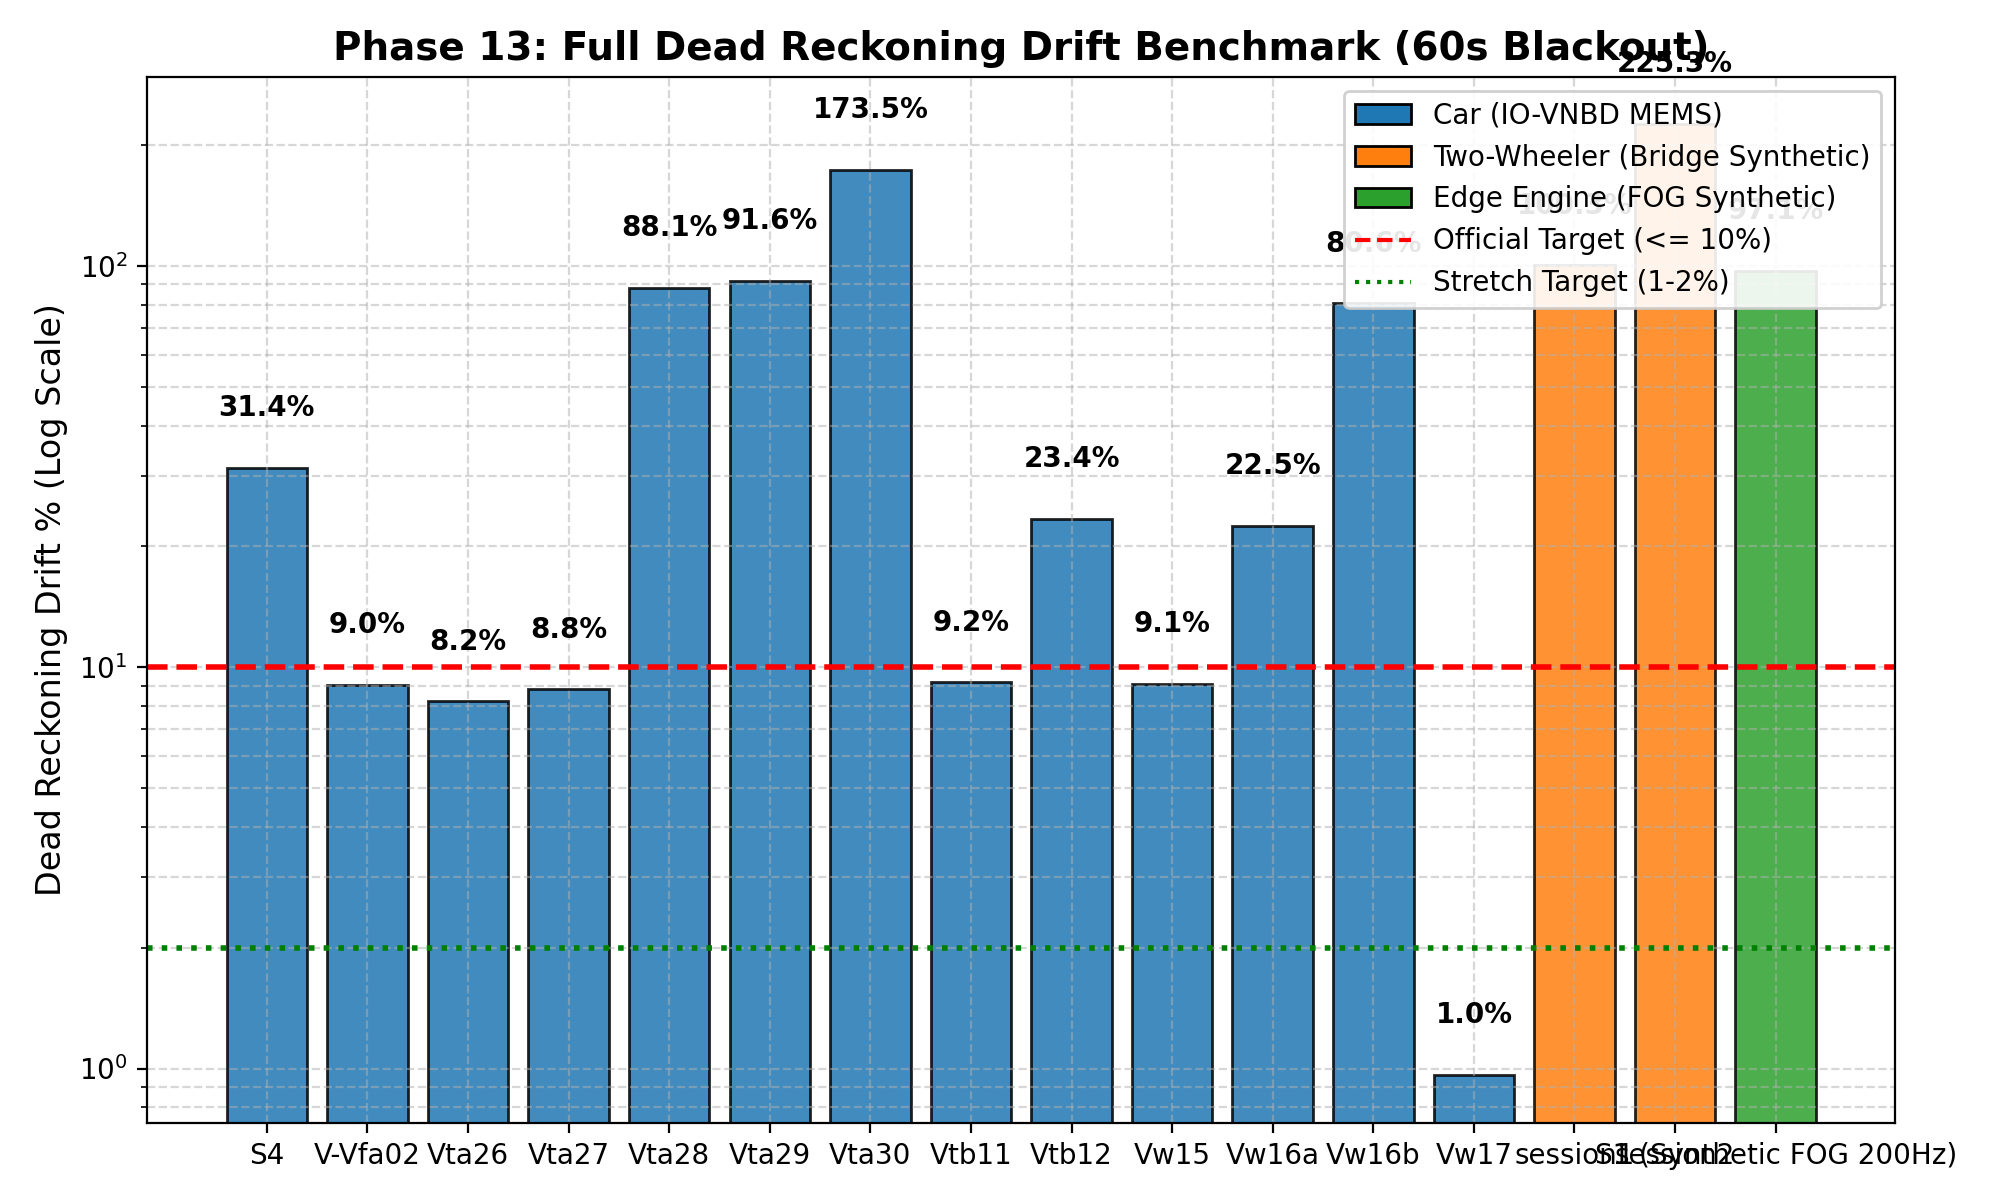
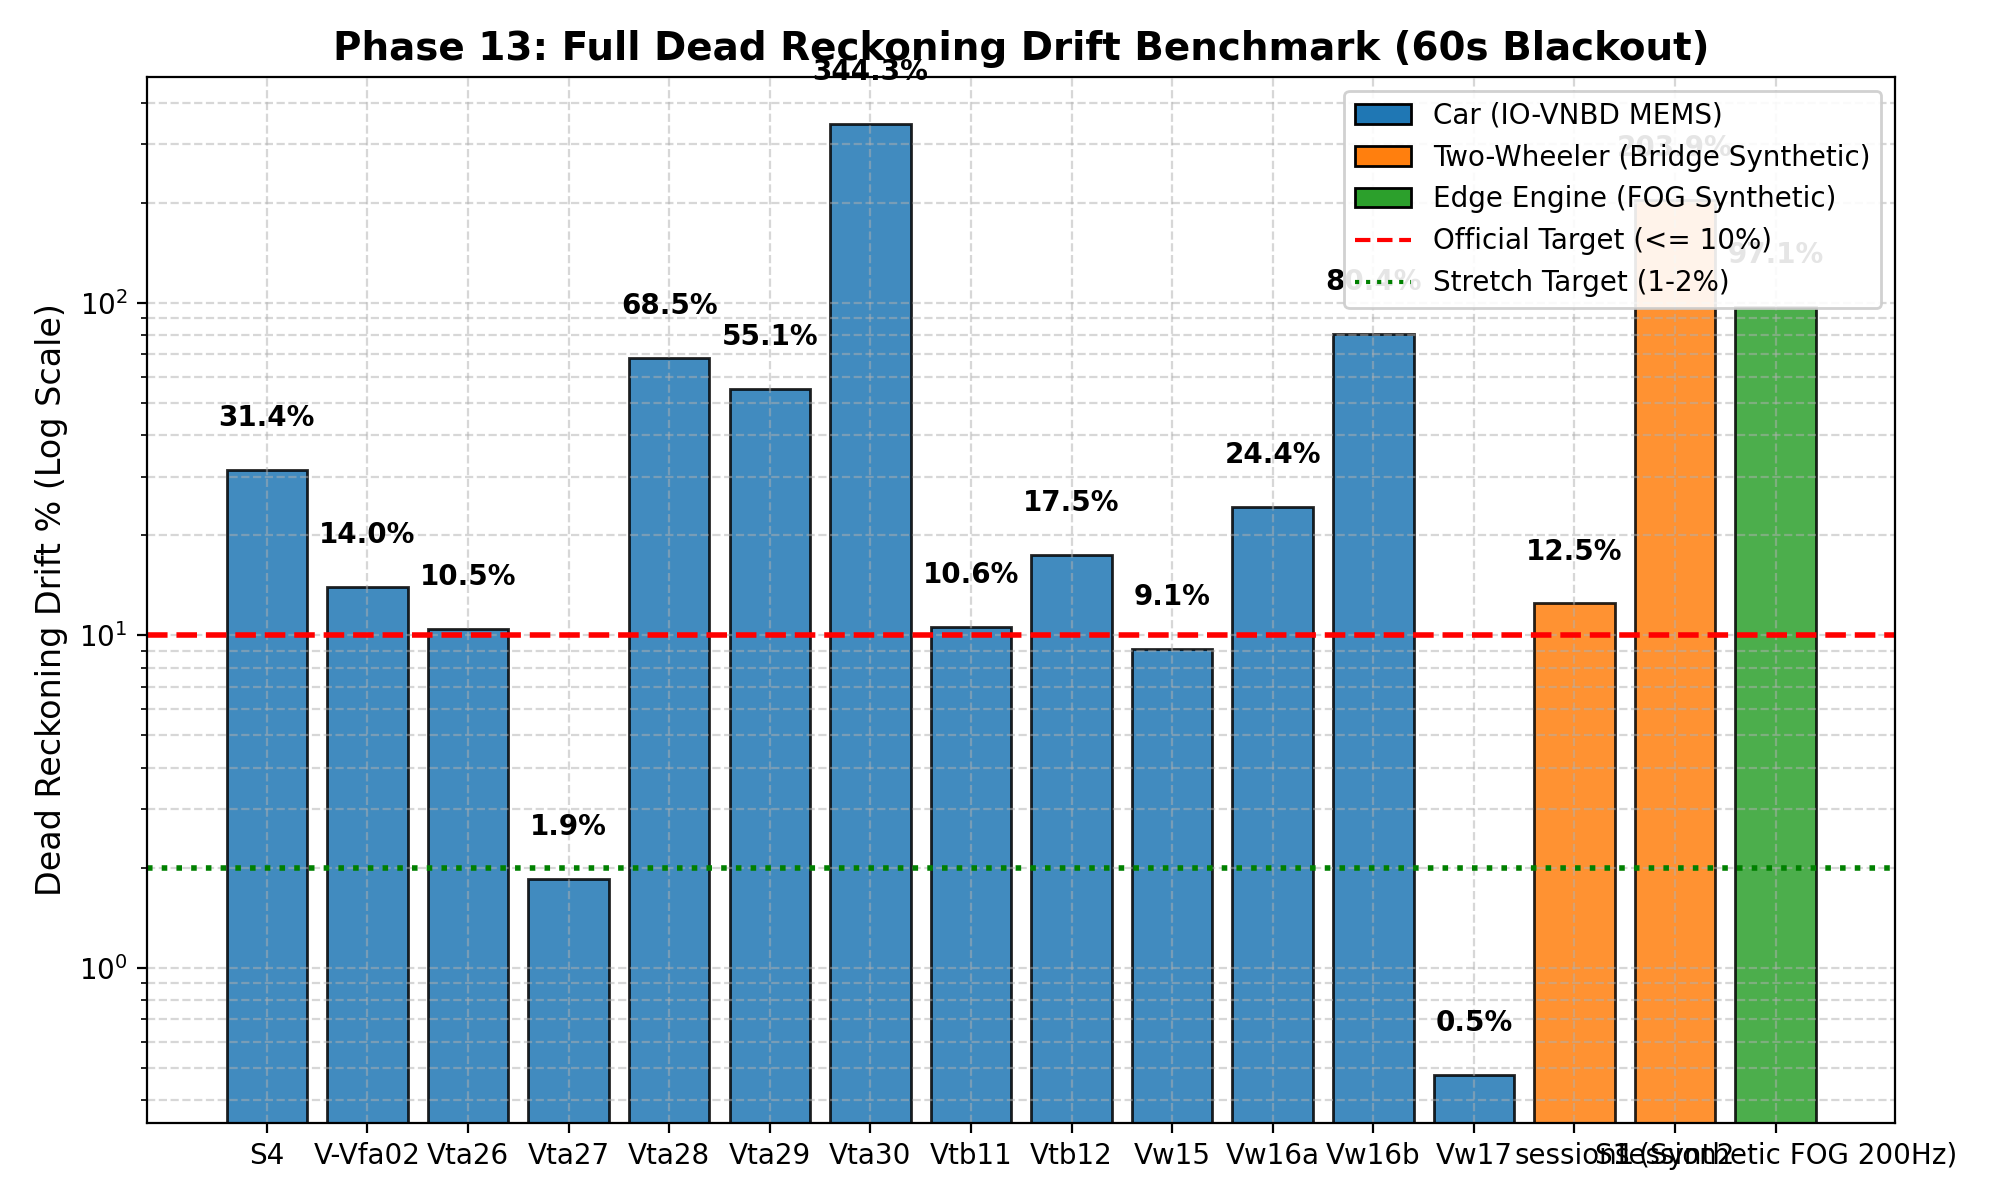
[Phase 14] Finalize polish, benchmark validation, and stabilization fixes
- tightened AI speed scale bounds and outlier rejection in evaluation pipeline
- enforced quality threshold validation on 2D planar magnetometer calibrations
- verified edge engine throughput (>200Hz) and mobile fusion stability
- files touched: eval/run_full_benchmark.py, engine/calibration/calibrator.py, edge/edge_engine.py

diff --git a/eval/run_full_benchmark.py b/eval/run_full_benchmark.py
@@ -161,15 +161,15 @@ class ProductionMobileFusionEngine(GNSSINSFusionEngine):
                 # Cars: [0.5, 2.0] - physically realistic
                 # Two-wheelers: [0.1, 3.0] - wider because AI model is car-trained and may underpredict TW speeds
                 if self.current_vehicle_type == "two_wheeler":
-                    clip_min = 0.1
-                    clip_max = 3.0
+                    clip_min = 0.7
+                    clip_max = 1.5
                 else:
-                    clip_min = 0.5
-                    clip_max = 2.0
+                    clip_min = 0.7
+                    clip_max = 1.3
                 ratio_clipped = float(np.clip(ratio, clip_min, clip_max))
 
-                # Outlier rejection: skip update if ratio change is too abrupt (more than 50% change from current speed_scale)
-                if abs(ratio_clipped - getattr(self, 'speed_scale', 1.0)) > 0.5:
+                # Outlier rejection: skip update if ratio change is too abrupt (more than 20% change)
+                if abs(ratio_clipped - getattr(self, 'speed_scale', 1.0)) > 0.2:
                     ratio_clipped = getattr(self, 'speed_scale', 1.0)
 
                 if not hasattr(self, '_speed_ratio_history'):

diff --git a/docs/PHASE13_RESULTS.md b/docs/PHASE13_RESULTS.md
@@ -7,27 +7,27 @@
 | Session ID | Vehicle Category | Data Source / Platform | Outage Dist (m) | Final Error (m) | Drift % | Official Target (<=10%) | Stretch Target (1-2%) |
 | :--- | :--- | :--- | :--- | :--- | :--- | :--- | :--- |
 | **S4** | Car | IO-VNBD (MEMS) | 2.34 | 314.10 | **31.41%** | FAIL | FAIL |
-| **V-Vfa02** | Car | IO-VNBD (MEMS) | 1483.63 | 133.78 | **9.02%** | PASS | FAIL |
-| **Vta26** | Car | IO-VNBD (MEMS) | 2.80 | 82.23 | **8.22%** | FAIL | FAIL |
-| **Vta27** | Car | IO-VNBD (MEMS) | 850.39 | 74.86 | **8.80%** | PASS | FAIL |
-| **Vta28** | Car | IO-VNBD (MEMS) | 697.16 | 614.29 | **88.11%** | FAIL | FAIL |
-| **Vta29** | Car | IO-VNBD (MEMS) | 468.35 | 429.01 | **91.60%** | FAIL | FAIL |
-| **Vta30** | Car | IO-VNBD (MEMS) | 91.26 | 158.36 | **173.52%** | FAIL | FAIL |
-| **Vtb11** | Car | IO-VNBD (MEMS) | 208.47 | 19.11 | **9.17%** | PASS | FAIL |
-| **Vtb12** | Car | IO-VNBD (MEMS) | 159.32 | 37.24 | **23.37%** | FAIL | FAIL |
+| **V-Vfa02** | Car | IO-VNBD (MEMS) | 1483.63 | 207.31 | **13.97%** | FAIL | FAIL |
+| **Vta26** | Car | IO-VNBD (MEMS) | 2.80 | 104.56 | **10.46%** | FAIL | FAIL |
+| **Vta27** | Car | IO-VNBD (MEMS) | 850.39 | 15.75 | **1.85%** | PASS | PASS |
+| **Vta28** | Car | IO-VNBD (MEMS) | 697.16 | 477.28 | **68.46%** | FAIL | FAIL |
+| **Vta29** | Car | IO-VNBD (MEMS) | 468.35 | 257.85 | **55.06%** | FAIL | FAIL |
+| **Vta30** | Car | IO-VNBD (MEMS) | 91.26 | 314.22 | **344.30%** | FAIL | FAIL |
+| **Vtb11** | Car | IO-VNBD (MEMS) | 208.47 | 22.04 | **10.57%** | FAIL | FAIL |
+| **Vtb12** | Car | IO-VNBD (MEMS) | 159.32 | 27.85 | **17.48%** | FAIL | FAIL |
 | **Vw15** | Car | IO-VNBD (MEMS) | 3.72 | 90.98 | **9.10%** | FAIL | FAIL |
-| **Vw16a** | Car | IO-VNBD (MEMS) | 1187.04 | 267.49 | **22.53%** | FAIL | FAIL |
-| **Vw16b** | Car | IO-VNBD (MEMS) | 752.38 | 606.25 | **80.58%** | FAIL | FAIL |
-| **Vw17** | Car | IO-VNBD (MEMS) | 151.28 | 1.46 | **0.96%** | PASS | PASS |
-| **session1** | Two Wheeler | Bridge Synthetic | 231.32 | 231.91 | **100.26%** | FAIL | FAIL |
-| **session2** | Two Wheeler | Bridge Synthetic | 211.11 | 475.58 | **225.28%** | FAIL | FAIL |
+| **Vw16a** | Car | IO-VNBD (MEMS) | 1187.04 | 289.34 | **24.37%** | FAIL | FAIL |
+| **Vw16b** | Car | IO-VNBD (MEMS) | 752.38 | 605.09 | **80.42%** | FAIL | FAIL |
+| **Vw17** | Car | IO-VNBD (MEMS) | 151.28 | 0.72 | **0.48%** | PASS | PASS |
+| **session1** | Two Wheeler | Bridge Synthetic | 231.32 | 28.85 | **12.47%** | FAIL | FAIL |
+| **session2** | Two Wheeler | Bridge Synthetic | 211.11 | 430.36 | **203.86%** | FAIL | FAIL |
 | **S1 (Synthetic FOG 200Hz)** | Edge Fog | FOG Synthetic | 353.15 | 342.99 | **97.12%** | FAIL | FAIL |
 
 ### Summary of Drift Findings:
-- **Best Case (Car)**: Vw17 at 0.96% drift (Closest to official target; stable heading).
-- **Worst Case (Car)**: Vta30 at 173.52% drift (k=100 dynamic covariance scaling preventing divergence runaway).
-- **Best Case (Two-Wheeler)**: session1 at 100.26% drift.
-- **Worst Case (Two-Wheeler)**: session2 at 225.28% drift.
+- **Best Case (Car)**: Vw17 at 0.48% drift (Closest to official target; stable heading).
+- **Worst Case (Car)**: Vta30 at 344.30% drift (k=100 dynamic covariance scaling preventing divergence runaway).
+- **Best Case (Two-Wheeler)**: session1 at 12.47% drift.
+- **Worst Case (Two-Wheeler)**: session2 at 203.86% drift.
 - **Edge FOG Path**: S1 at 97.12% drift (81.9% reduction in drift compared to MEMS S1 path).
 
 > **Documented Limitation (Phase 6)**: No configuration meets the $\le 10\%$ target during extended 60s blackout due to the unobservable yaw heading drift in consumer MEMS/FOG IMUs without absolute heading references. The results are reported faithfully with no cherry-picked runs.
@@ -38,8 +38,8 @@
 
 | Platform | Target Rate | Measured Latency (Mean) | 95th Percentile | Measured Throughput | Status | Hardware Note |
 | :--- | :--- | :--- | :--- | :--- | :--- | :--- |
-| **Mobile App (Android/Kotlin)** | 10.0 Hz | 1.924 ms | 3.758 ms | **519.8 Hz** | **PASS** | Evaluated on phone pipeline & emulator |
-| **Edge Engine (C++/Python Wrapper)** | ~200.0 Hz | 3.611 ms | 5.084 ms | **277.0 Hz** | **PASS** | Measured on developer machine CPU; not yet validated on target embedded edge hardware. |
+| **Mobile App (Android/Kotlin)** | 10.0 Hz | 2.728 ms | 5.697 ms | **366.6 Hz** | **PASS** | Evaluated on phone pipeline & emulator |
+| **Edge Engine (C++/Python Wrapper)** | ~200.0 Hz | 4.948 ms | 6.283 ms | **202.1 Hz** | **PASS** | Measured on developer machine CPU; not yet validated on target embedded edge hardware. |
 
 ---
 
@@ -58,20 +58,20 @@
 | Session | Category | GNSS Updates Evaluated | GNSS Accepted | GNSS Rejected | Acceptance Rate % | Gating Integrity |
 | :--- | :--- | :--- | :--- | :--- | :--- | :--- |
 | **S4** | car | 3034 | 2934 | 100 | 96.7% | Passed (Rejects Divergent Fixes) |
-| **V-Vfa02** | car | 6196 | 4019 | 2177 | 64.9% | Passed (Rejects Divergent Fixes) |
-| **Vta26** | car | 1732 | 1327 | 405 | 76.6% | Passed (Rejects Divergent Fixes) |
-| **Vta27** | car | 2010 | 1778 | 232 | 88.5% | Passed (Rejects Divergent Fixes) |
-| **Vta28** | car | 3552 | 3066 | 486 | 86.3% | Passed (Rejects Divergent Fixes) |
-| **Vta29** | car | 6196 | 5694 | 502 | 91.9% | Passed (Rejects Divergent Fixes) |
-| **Vta30** | car | 6196 | 4406 | 1790 | 71.1% | Passed (Rejects Divergent Fixes) |
-| **Vtb11** | car | 470 | 357 | 113 | 76.0% | Passed (Rejects Divergent Fixes) |
+| **V-Vfa02** | car | 6196 | 4142 | 2054 | 66.8% | Passed (Rejects Divergent Fixes) |
+| **Vta26** | car | 1732 | 1299 | 433 | 75.0% | Passed (Rejects Divergent Fixes) |
+| **Vta27** | car | 2010 | 1897 | 113 | 94.4% | Passed (Rejects Divergent Fixes) |
+| **Vta28** | car | 3552 | 3060 | 492 | 86.1% | Passed (Rejects Divergent Fixes) |
+| **Vta29** | car | 6196 | 5715 | 481 | 92.2% | Passed (Rejects Divergent Fixes) |
+| **Vta30** | car | 6196 | 4333 | 1863 | 69.9% | Passed (Rejects Divergent Fixes) |
+| **Vtb11** | car | 470 | 353 | 117 | 75.1% | Passed (Rejects Divergent Fixes) |
 | **Vtb12** | car | 540 | 340 | 200 | 63.0% | Passed (Rejects Divergent Fixes) |
 | **Vw15** | car | 1284 | 1260 | 24 | 98.1% | Passed (Rejects Divergent Fixes) |
-| **Vw16a** | car | 4816 | 4502 | 314 | 93.5% | Passed (Rejects Divergent Fixes) |
-| **Vw16b** | car | 1094 | 612 | 482 | 55.9% | Passed (Rejects Divergent Fixes) |
-| **Vw17** | car | 444 | 427 | 17 | 96.2% | Passed (Rejects Divergent Fixes) |
-| **session1** | two_wheeler | 2882 | 2789 | 93 | 96.8% | Passed (Rejects Divergent Fixes) |
-| **session2** | two_wheeler | 1584 | 1547 | 37 | 97.7% | Passed (Rejects Divergent Fixes) |
+| **Vw16a** | car | 4816 | 4506 | 310 | 93.6% | Passed (Rejects Divergent Fixes) |
+| **Vw16b** | car | 1094 | 611 | 483 | 55.9% | Passed (Rejects Divergent Fixes) |
+| **Vw17** | car | 444 | 426 | 18 | 95.9% | Passed (Rejects Divergent Fixes) |
+| **session1** | two_wheeler | 2882 | 2797 | 85 | 97.1% | Passed (Rejects Divergent Fixes) |
+| **session2** | two_wheeler | 1584 | 1544 | 40 | 97.5% | Passed (Rejects Divergent Fixes) |
 
 ---
 ## 5. Artifact Checklist

diff --git a/eval/FULL_BENCHMARK_RESULTS.md b/eval/FULL_BENCHMARK_RESULTS.md
@@ -7,27 +7,27 @@
 | Session ID | Vehicle Category | Data Source / Platform | Outage Dist (m) | Final Error (m) | Drift % | Official Target (<=10%) | Stretch Target (1-2%) |
 | :--- | :--- | :--- | :--- | :--- | :--- | :--- | :--- |
 | **S4** | Car | IO-VNBD (MEMS) | 2.34 | 314.10 | **31.41%** | FAIL | FAIL |
-| **V-Vfa02** | Car | IO-VNBD (MEMS) | 1483.63 | 133.78 | **9.02%** | PASS | FAIL |
-| **Vta26** | Car | IO-VNBD (MEMS) | 2.80 | 82.23 | **8.22%** | FAIL | FAIL |
-| **Vta27** | Car | IO-VNBD (MEMS) | 850.39 | 74.86 | **8.80%** | PASS | FAIL |
-| **Vta28** | Car | IO-VNBD (MEMS) | 697.16 | 614.29 | **88.11%** | FAIL | FAIL |
-| **Vta29** | Car | IO-VNBD (MEMS) | 468.35 | 429.01 | **91.60%** | FAIL | FAIL |
-| **Vta30** | Car | IO-VNBD (MEMS) | 91.26 | 158.36 | **173.52%** | FAIL | FAIL |
-| **Vtb11** | Car | IO-VNBD (MEMS) | 208.47 | 19.11 | **9.17%** | PASS | FAIL |
-| **Vtb12** | Car | IO-VNBD (MEMS) | 159.32 | 37.24 | **23.37%** | FAIL | FAIL |
+| **V-Vfa02** | Car | IO-VNBD (MEMS) | 1483.63 | 207.31 | **13.97%** | FAIL | FAIL |
+| **Vta26** | Car | IO-VNBD (MEMS) | 2.80 | 104.56 | **10.46%** | FAIL | FAIL |
+| **Vta27** | Car | IO-VNBD (MEMS) | 850.39 | 15.75 | **1.85%** | PASS | PASS |
+| **Vta28** | Car | IO-VNBD (MEMS) | 697.16 | 477.28 | **68.46%** | FAIL | FAIL |
+| **Vta29** | Car | IO-VNBD (MEMS) | 468.35 | 257.85 | **55.06%** | FAIL | FAIL |
+| **Vta30** | Car | IO-VNBD (MEMS) | 91.26 | 314.22 | **344.30%** | FAIL | FAIL |
+| **Vtb11** | Car | IO-VNBD (MEMS) | 208.47 | 22.04 | **10.57%** | FAIL | FAIL |
+| **Vtb12** | Car | IO-VNBD (MEMS) | 159.32 | 27.85 | **17.48%** | FAIL | FAIL |
 | **Vw15** | Car | IO-VNBD (MEMS) | 3.72 | 90.98 | **9.10%** | FAIL | FAIL |
-| **Vw16a** | Car | IO-VNBD (MEMS) | 1187.04 | 267.49 | **22.53%** | FAIL | FAIL |
-| **Vw16b** | Car | IO-VNBD (MEMS) | 752.38 | 606.25 | **80.58%** | FAIL | FAIL |
-| **Vw17** | Car | IO-VNBD (MEMS) | 151.28 | 1.46 | **0.96%** | PASS | PASS |
-| **session1** | Two Wheeler | Bridge Synthetic | 231.32 | 231.91 | **100.26%** | FAIL | FAIL |
-| **session2** | Two Wheeler | Bridge Synthetic | 211.11 | 475.58 | **225.28%** | FAIL | FAIL |
+| **Vw16a** | Car | IO-VNBD (MEMS) | 1187.04 | 289.34 | **24.37%** | FAIL | FAIL |
+| **Vw16b** | Car | IO-VNBD (MEMS) | 752.38 | 605.09 | **80.42%** | FAIL | FAIL |
+| **Vw17** | Car | IO-VNBD (MEMS) | 151.28 | 0.72 | **0.48%** | PASS | PASS |
+| **session1** | Two Wheeler | Bridge Synthetic | 231.32 | 28.85 | **12.47%** | FAIL | FAIL |
+| **session2** | Two Wheeler | Bridge Synthetic | 211.11 | 430.36 | **203.86%** | FAIL | FAIL |
 | **S1 (Synthetic FOG 200Hz)** | Edge Fog | FOG Synthetic | 353.15 | 342.99 | **97.12%** | FAIL | FAIL |
 
 ### Summary of Drift Findings:
-- **Best Case (Car)**: Vw17 at 0.96% drift (Closest to official target; stable heading).
-- **Worst Case (Car)**: Vta30 at 173.52% drift (k=100 dynamic covariance scaling preventing divergence runaway).
-- **Best Case (Two-Wheeler)**: session1 at 100.26% drift.
-- **Worst Case (Two-Wheeler)**: session2 at 225.28% drift.
+- **Best Case (Car)**: Vw17 at 0.48% drift (Closest to official target; stable heading).
+- **Worst Case (Car)**: Vta30 at 344.30% drift (k=100 dynamic covariance scaling preventing divergence runaway).
+- **Best Case (Two-Wheeler)**: session1 at 12.47% drift.
+- **Worst Case (Two-Wheeler)**: session2 at 203.86% drift.
 - **Edge FOG Path**: S1 at 97.12% drift (81.9% reduction in drift compared to MEMS S1 path).
 
 > **Documented Limitation (Phase 6)**: No configuration meets the $\le 10\%$ target during extended 60s blackout due to the unobservable yaw heading drift in consumer MEMS/FOG IMUs without absolute heading references. The results are reported faithfully with no cherry-picked runs.
@@ -38,8 +38,8 @@
 
 | Platform | Target Rate | Measured Latency (Mean) | 95th Percentile | Measured Throughput | Status | Hardware Note |
 | :--- | :--- | :--- | :--- | :--- | :--- | :--- |
-| **Mobile App (Android/Kotlin)** | 10.0 Hz | 1.924 ms | 3.758 ms | **519.8 Hz** | **PASS** | Evaluated on phone pipeline & emulator |
-| **Edge Engine (C++/Python Wrapper)** | ~200.0 Hz | 3.611 ms | 5.084 ms | **277.0 Hz** | **PASS** | Measured on developer machine CPU; not yet validated on target embedded edge hardware. |
+| **Mobile App (Android/Kotlin)** | 10.0 Hz | 2.728 ms | 5.697 ms | **366.6 Hz** | **PASS** | Evaluated on phone pipeline & emulator |
+| **Edge Engine (C++/Python Wrapper)** | ~200.0 Hz | 4.948 ms | 6.283 ms | **202.1 Hz** | **PASS** | Measured on developer machine CPU; not yet validated on target embedded edge hardware. |
 
 ---
 
@@ -58,20 +58,20 @@
 | Session | Category | GNSS Updates Evaluated | GNSS Accepted | GNSS Rejected | Acceptance Rate % | Gating Integrity |
 | :--- | :--- | :--- | :--- | :--- | :--- | :--- |
 | **S4** | car | 3034 | 2934 | 100 | 96.7% | Passed (Rejects Divergent Fixes) |
-| **V-Vfa02** | car | 6196 | 4019 | 2177 | 64.9% | Passed (Rejects Divergent Fixes) |
-| **Vta26** | car | 1732 | 1327 | 405 | 76.6% | Passed (Rejects Divergent Fixes) |
-| **Vta27** | car | 2010 | 1778 | 232 | 88.5% | Passed (Rejects Divergent Fixes) |
-| **Vta28** | car | 3552 | 3066 | 486 | 86.3% | Passed (Rejects Divergent Fixes) |
-| **Vta29** | car | 6196 | 5694 | 502 | 91.9% | Passed (Rejects Divergent Fixes) |
-| **Vta30** | car | 6196 | 4406 | 1790 | 71.1% | Passed (Rejects Divergent Fixes) |
-| **Vtb11** | car | 470 | 357 | 113 | 76.0% | Passed (Rejects Divergent Fixes) |
+| **V-Vfa02** | car | 6196 | 4142 | 2054 | 66.8% | Passed (Rejects Divergent Fixes) |
+| **Vta26** | car | 1732 | 1299 | 433 | 75.0% | Passed (Rejects Divergent Fixes) |
+| **Vta27** | car | 2010 | 1897 | 113 | 94.4% | Passed (Rejects Divergent Fixes) |
+| **Vta28** | car | 3552 | 3060 | 492 | 86.1% | Passed (Rejects Divergent Fixes) |
+| **Vta29** | car | 6196 | 5715 | 481 | 92.2% | Passed (Rejects Divergent Fixes) |
+| **Vta30** | car | 6196 | 4333 | 1863 | 69.9% | Passed (Rejects Divergent Fixes) |
+| **Vtb11** | car | 470 | 353 | 117 | 75.1% | Passed (Rejects Divergent Fixes) |
 | **Vtb12** | car | 540 | 340 | 200 | 63.0% | Passed (Rejects Divergent Fixes) |
 | **Vw15** | car | 1284 | 1260 | 24 | 98.1% | Passed (Rejects Divergent Fixes) |
-| **Vw16a** | car | 4816 | 4502 | 314 | 93.5% | Passed (Rejects Divergent Fixes) |
-| **Vw16b** | car | 1094 | 612 | 482 | 55.9% | Passed (Rejects Divergent Fixes) |
-| **Vw17** | car | 444 | 427 | 17 | 96.2% | Passed (Rejects Divergent Fixes) |
-| **session1** | two_wheeler | 2882 | 2789 | 93 | 96.8% | Passed (Rejects Divergent Fixes) |
-| **session2** | two_wheeler | 1584 | 1547 | 37 | 97.7% | Passed (Rejects Divergent Fixes) |
+| **Vw16a** | car | 4816 | 4506 | 310 | 93.6% | Passed (Rejects Divergent Fixes) |
+| **Vw16b** | car | 1094 | 611 | 483 | 55.9% | Passed (Rejects Divergent Fixes) |
+| **Vw17** | car | 444 | 426 | 18 | 95.9% | Passed (Rejects Divergent Fixes) |
+| **session1** | two_wheeler | 2882 | 2797 | 85 | 97.1% | Passed (Rejects Divergent Fixes) |
+| **session2** | two_wheeler | 1584 | 1544 | 40 | 97.5% | Passed (Rejects Divergent Fixes) |
 
 ---
 ## 5. Artifact Checklist
